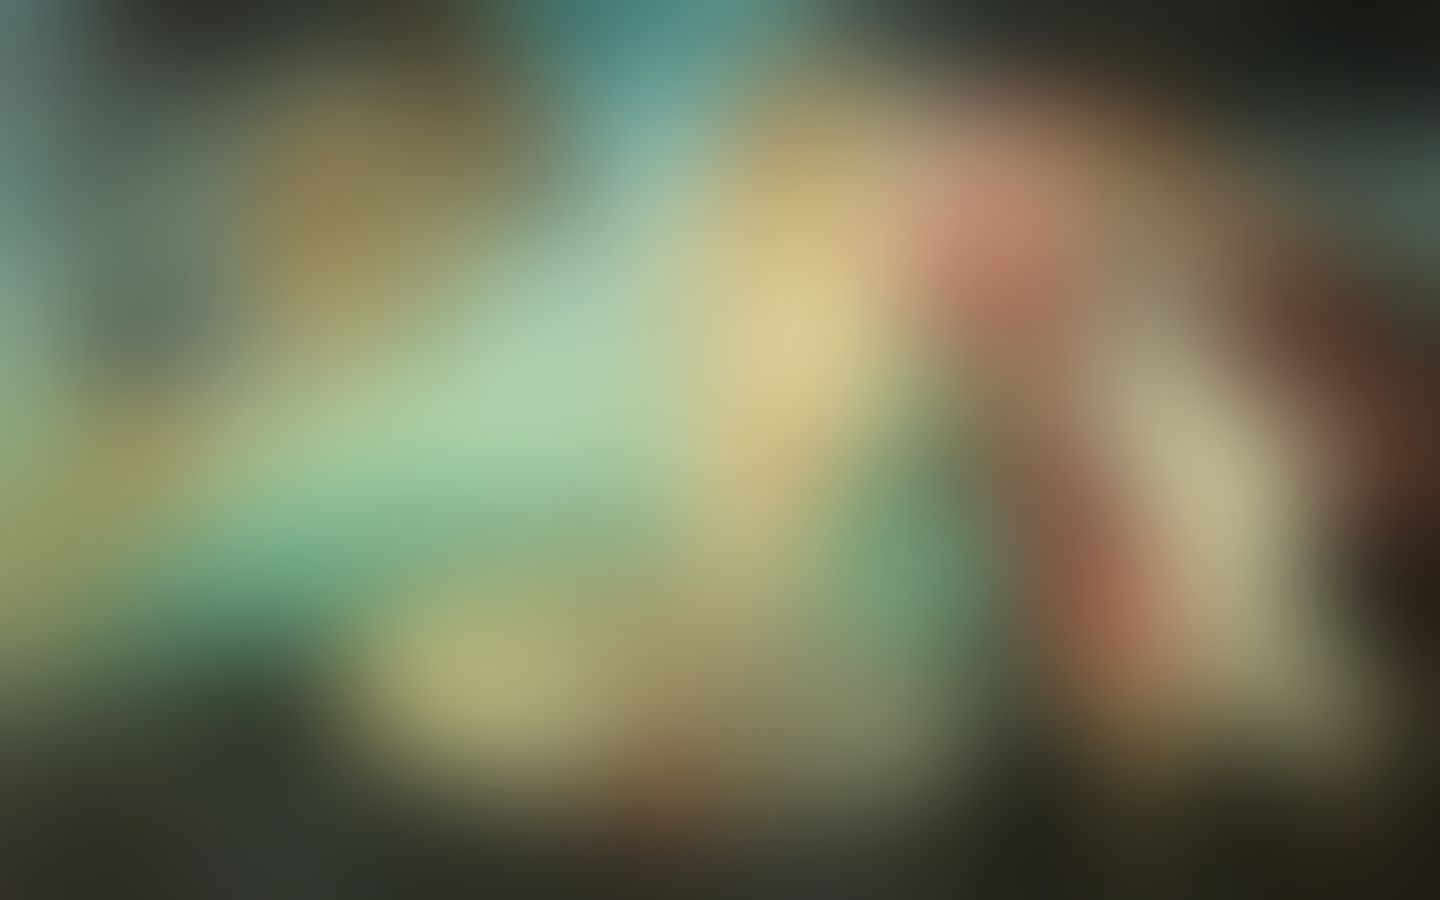
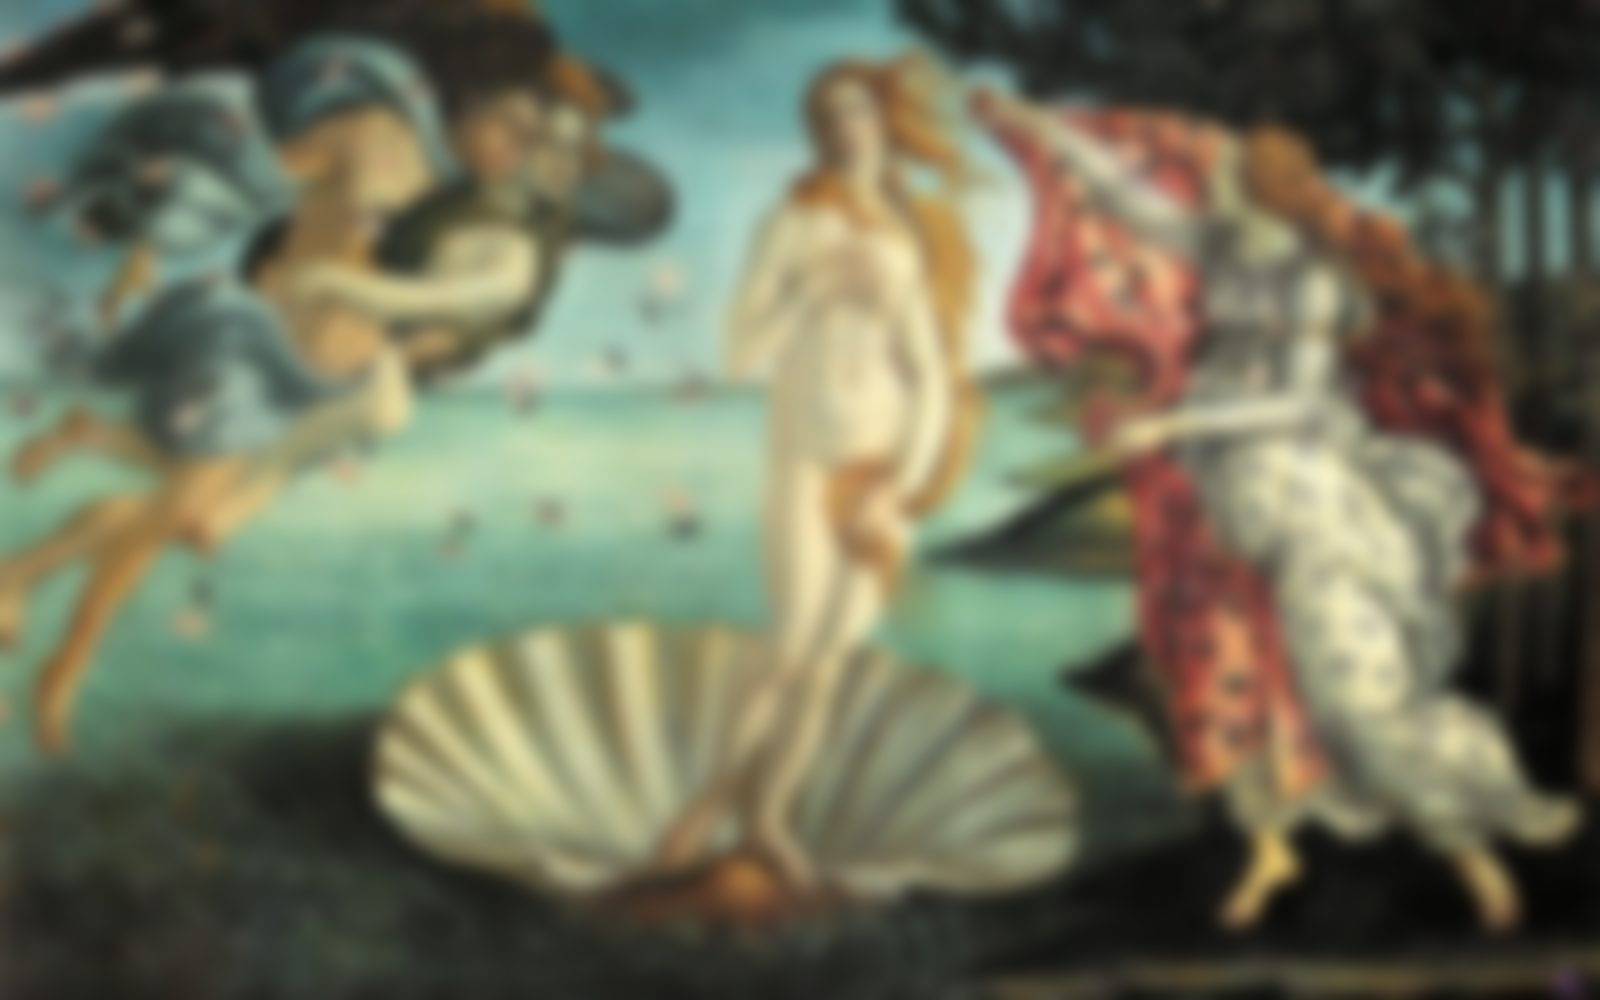
Один общий фон, слабее размытие, тёмное стекло под заголовком, без виджетов

diff --git a/css/style.css b/css/style.css
@@ -37,10 +37,7 @@ body::before {
   background: url("../assets/ren/wall-venus.jpg") center / cover no-repeat;
   transition: opacity .4s;
 }
-body::after { content: ""; position: fixed; inset: 0; z-index: -1; background: rgba(240, 242, 246, .28); }
-body[data-tab="spreads"]::before { background-image: url("../assets/ren/wall-annunciation.jpg"); }
-body[data-tab="cards"]::before { background-image: url("../assets/ren/wall-graces.jpg"); }
-body[data-tab="decks"]::before, body[data-tab="journal"]::before { background-image: url("../assets/ren/wall-putti.jpg"); }
+body::after { content: ""; position: fixed; inset: 0; z-index: -1; background: rgba(240, 242, 246, .18); }
 body[data-tab="home"]::before { background-image: url("../assets/ren/venus.jpg"); background-position: 52% 30%; }
 body[data-tab="home"]::after { background: linear-gradient(180deg, rgba(10, 20, 30, .28) 0%, rgba(10, 20, 30, 0) 38%, rgba(10, 20, 30, .12) 100%); }
 
@@ -132,7 +129,7 @@ select.input { cursor: pointer; appearance: none; background-image: url("data:im
 /* ——— Стартовая страница: экран блокировки ——— */
 #tab-home { color: #fff; }
 .home { display: grid; grid-template-columns: minmax(0, 1fr) 460px; gap: 40px; align-items: start; min-height: calc(100vh - 200px); }
-.home-lock { padding-top: 4vh; text-shadow: 0 2px 24px rgba(0, 0, 0, .35); }
+.home-lock { margin-top: 4vh; padding: 26px 30px 30px; border-radius: var(--r-xl); background: rgba(16, 24, 36, .38); -webkit-backdrop-filter: blur(18px) saturate(1.3); backdrop-filter: blur(18px) saturate(1.3); text-shadow: 0 1px 12px rgba(0, 0, 0, .3); max-width: 640px; }
 .home-date { font: 500 1.25rem var(--ui); opacity: .95; }
 .home-title { font: 400 clamp(3.6rem, 8vw, 7rem)/0.95 var(--display); margin: 6px 0 14px; letter-spacing: -.01em; animation: rise .8s cubic-bezier(.2, .8, .2, 1) both; }
 @keyframes rise { from { opacity: 0; transform: translateY(14px); } }

diff --git a/js/app.js b/js/app.js
@@ -605,13 +605,6 @@
   function renderHome() {
     const now = new Date();
     $("#homeDate").textContent = now.toLocaleDateString("ru-RU", { weekday: "long", day: "numeric", month: "long" }).replace(/^./, c => c.toUpperCase());
-    // Карта дня: одна и та же весь день
-    const key = now.toISOString().slice(0, 10);
-    let hsh = 0; for (const ch of key) hsh = (hsh * 31 + ch.charCodeAt(0)) >>> 0;
-    const dc = ALL[hsh % 78], drev = state.useRev && (hsh >> 7) % 4 === 0;
-    $("#dayCard").innerHTML = `<div class="img">${imgTag(dc.id, drev)}</div><div><b>${esc(T.fullName(dc, drev))}</b><div class="keys">${esc(drev ? dc.kRev : dc.kUp)}</div><div class="hint">${esc((drev ? dc.rev : dc.up)[0])}</div></div>`;
-    $("#dayCard").onclick = () => openCard(dc.id);
-    if (!$("#homeCards").innerHTML) $("#homeCards").innerHTML = ["vsLovers", "vsStar", "vsMoon", "vsSun"].map(k => window.ART.framed(k, { short: true, thin: true })).join("");
     const auto = !home.manual ? detectTheme($("#homeQ").value) : null;
     const th = home.manual ? home.theme : auto || home.theme || "general";
     $("#homeTheme").textContent = home.manual ? "" : auto ? `Похоже, тема — «${T.themeName(auto)}». Можно выбрать другую:` : "Тема вопроса:";

diff --git a/index.html b/index.html
@@ -28,10 +28,6 @@
         <div class="home-date" id="homeDate"></div>
         <h1 class="home-title">Задай свой вопрос</h1>
         <p class="home-sub">Карты подскажут, как их значения связаны. Толкование остаётся за тобой.</p>
-        <div class="home-widgets">
-          <div class="widget"><h4>Карта дня</h4><div class="daycard" id="dayCard"></div></div>
-          <div class="widget"><h4>Таро XV века</h4><div class="home-cards" id="homeCards"></div></div>
-        </div>
       </div>
       <form class="home-card" id="homeForm">
         <h3>Вопрос</h3>
